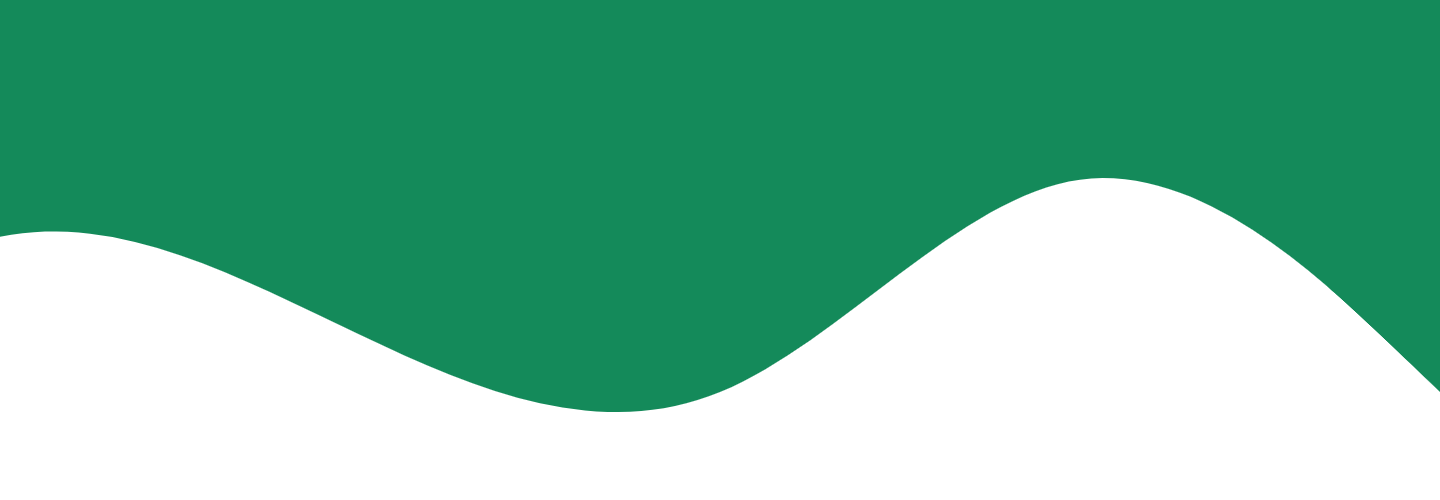
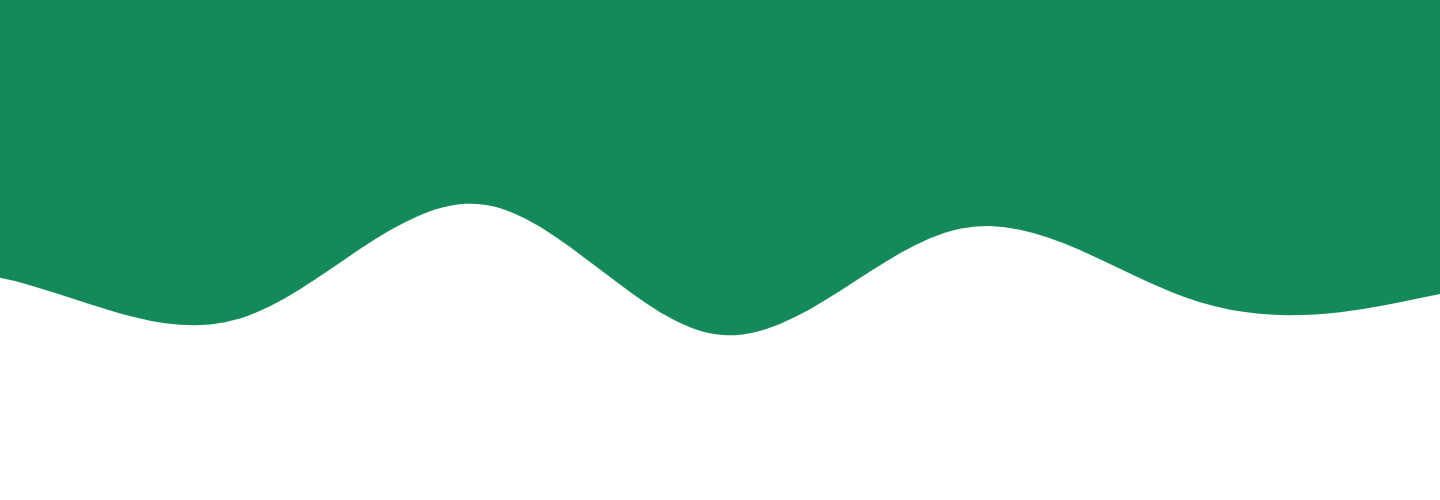
Continuidade do ajuste no background do body

Changed region(s): [[0.0, 0.33, 1.0, 0.84]]

diff --git a/style.css b/style.css
@@ -5,28 +5,14 @@
     text-decoration: none;
 }
 /*Ajuste do body*/
-#pattern {
+body {
     /*cor hexa do background-image: #148a5a*/
-    /*background-image: url(./assets/wave.png);
+    background-image: url(./assets/wave.png);
     background-position: 0% 0%;
     background-repeat: no-repeat;
-    background-size: cover;*/
-    position: absolute;
-    width: 100%;
-    background-color: #3bb78f;
-    background-image: linear-gradient(315deg,
-    #3bb78f 0%, #0bab64 74%);
-    
-}
-#pattern:before {
-    content: "";
-    position: absolute;
-    bottom: 0;
-    left: 0;
-    width: 100%;
-    height: 215px;
     background-size: cover;
-    background-repeat: no-repeat;
+    
+    
 }
 
 /*ajuste logo*/
